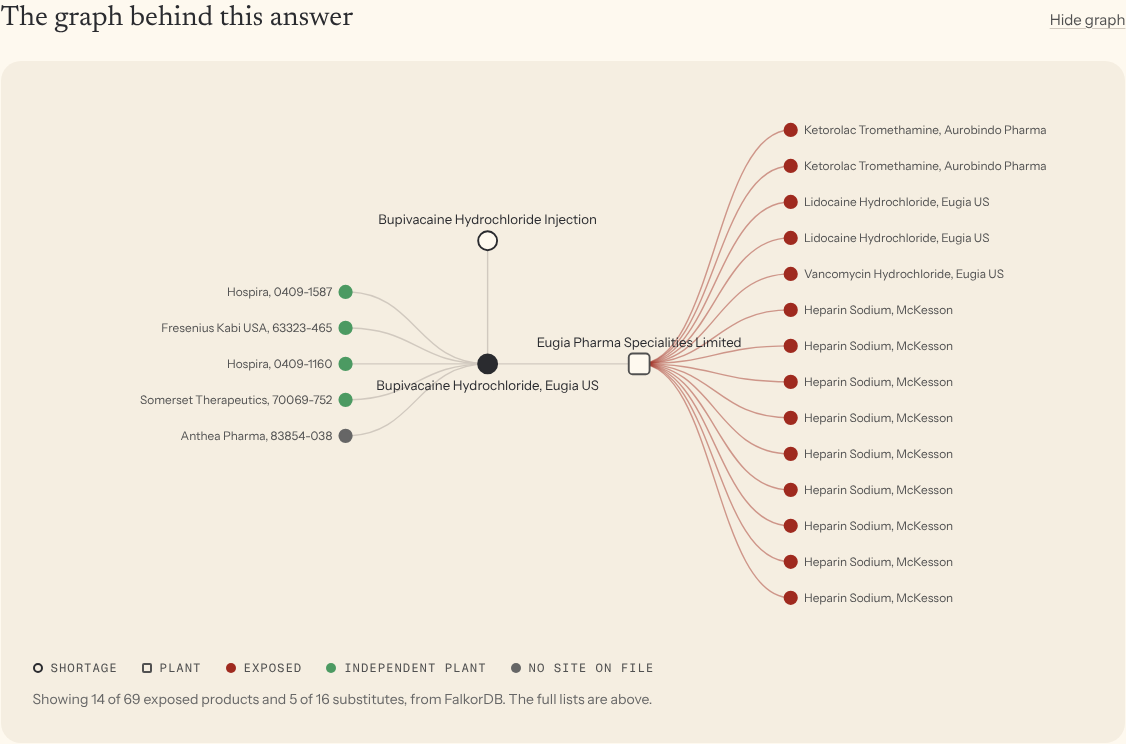
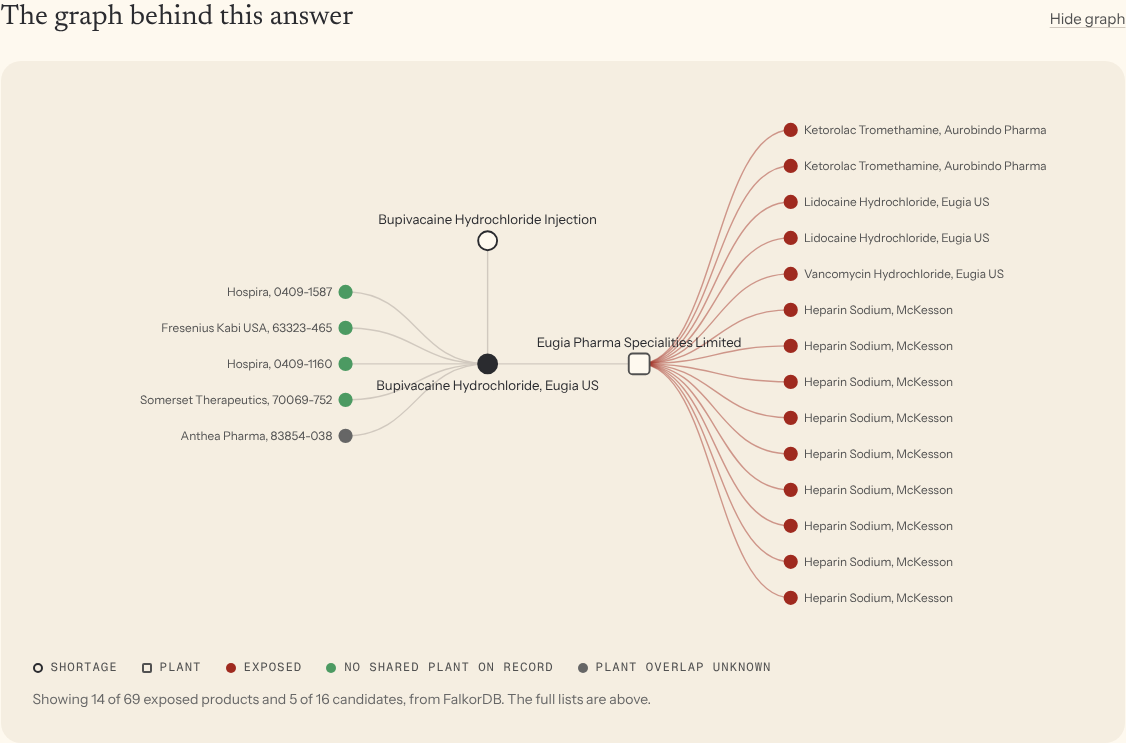
Remove facts the sources dropped on reload, stop cancelled traces before the next model call, and qualify summary, freshness and plant-group wording

diff --git a/frontend/src/components/landing/LiveCase.tsx b/frontend/src/components/landing/LiveCase.tsx
@@ -163,7 +163,7 @@ export function LiveCase() {
             ))}
           </ol>
           {ready && (
-            <p className="label mt-6 text-center">Live from today&rsquo;s FDA shortage list and a synthetic hospital formulary</p>
+            <p className="label mt-6 text-center">From the loaded FDA shortage list and a synthetic hospital formulary</p>
           )}
         </div>
       </section>
@@ -174,7 +174,7 @@ export function LiveCase() {
         <section id="case" className="scroll-mt-28 md:scroll-mt-20 bg-panel py-[clamp(48px,7vw,96px)]">
           <div className="wrap">
             <h2 className="h2 max-w-[22ch]">
-              A real case from <span className="em">today&rsquo;s</span> shortage list.
+              A real case from the <span className="em">FDA</span> shortage list.
             </h2>
             <div className="mt-12 grid items-center gap-3 lg:grid-cols-[1fr_auto_1fr_auto_1.1fr]">
               <Chip label="Shortage" title={`${title(d!.product!.label)}, ${company(d!.product!.labeler)}`} sub="FDA shortage notice" />
@@ -192,7 +192,7 @@ export function LiveCase() {
               </div>
             </div>
             <p className="mt-10 max-w-[60ch] text-[19px] text-ink-2">
-              {d!.hidden.length === 1 ? "This product has" : "Neither of these has"} a shortage notice in today&rsquo;s FDA list. {d!.hidden.length === 1 ? "It is" : "They are"} made at the same plant, under{" "}
+              {d!.hidden.length === 1 ? "This product has" : "Neither of these has"} a shortage notice in the FDA list Fontrel loaded. {d!.hidden.length === 1 ? "It is" : "They are"} made at the same plant, under{" "}
               {d!.hidden.length === 1 ? "another company's name" : "other companies' names"}.
             </p>
             <p className="mt-3 text-[15px] text-ink-3">

diff --git a/frontend/src/app/app/trace/[...id]/Reasoning.tsx b/frontend/src/app/app/trace/[...id]/Reasoning.tsx
@@ -70,7 +70,10 @@ export function Reasoning({ steps, answer, running, stale }: { steps: Step[]; an
         ) : answer.degraded ? (
           <p className="mt-3 text-ink-2">No written summary this time. The lists come straight from the graph.</p>
         ) : (
-          <p className="mt-3 font-display text-[21px] leading-snug">{summary}</p>
+          <>
+            <p className="mt-3 font-display text-[21px] leading-snug">{summary}</p>
+            <p className="mt-3 text-[14px] text-ink-3">Written by the AI model from the query results above. Check any claim against the lists before you act on it.</p>
+          </>
         )}
         {answer && stale && (
           <p className="mt-3 text-[14px] text-ink-2">This summary was written before your latest decision. Run a fresh trace to include it.</p>

diff --git a/frontend/src/app/app/trace/[...id]/Banner.tsx b/frontend/src/app/app/trace/[...id]/Banner.tsx
@@ -11,7 +11,7 @@ function when(iso: string) {
 
 export function Banner({ answer, onFresh }: { answer: TraceAnswer; onFresh: () => void }) {
   let text: string | null = null;
-  if (answer.degraded) text = "The AI model is busy, so this answer comes straight from the graph without a written summary.";
+  if (answer.degraded) text = "The AI model wasn't available for this trace, so this answer comes straight from the graph without a written summary.";
   else if (answer.replayed && answer.cached_at)
     text = `Saved trace from ${when(answer.cached_at)}. Your hospital's memory has not changed since.`;
   if (!text) return null;

diff --git a/frontend/src/app/app/sources/SourcesPage.tsx b/frontend/src/app/app/sources/SourcesPage.tsx
@@ -136,7 +136,7 @@ export function SourcesPage() {
           Plant groups touching {data ? shortName(data.tenant.name) : "your hospital"}
         </h2>
         <p className="mt-3 max-w-[62ch] text-ink-2">
-          Connected components: plants linked through the products they share. A problem at one plant can reach every product in its group.
+          Connected components: plants linked because some products list more than one of them. A shared link is a reason to review the whole group, not proof that a problem at one plant spreads.
         </p>
         <div className="mt-8">
           {!data ? (

diff --git a/frontend/src/app/app/Inbox.tsx b/frontend/src/app/app/Inbox.tsx
@@ -100,6 +100,9 @@ export function Inbox() {
                 <span className="em">touch your formulary.</span>
               </h1>
               <p className="mt-4 text-[19px] text-ink-2">{state.tenant.name}</p>
+              <p className="mt-2 max-w-[62ch] text-[15px] text-ink-3">
+                Every record here is on the FDA&rsquo;s current shortage list. The status column is the availability the FDA reports for that package, which can still be &ldquo;Available&rdquo;.
+              </p>
             </>
           ) : (
             <>

diff --git a/backend/ingest/load.py b/backend/ingest/load.py
@@ -25,9 +25,18 @@ def ensure_indexes(g: Graph) -> None:
 
 
 def load_products(g: Graph, rows: list[dict]) -> None:
+    """Products from this load replace what the graph held: a product that left the source is
+    removed, and each product's ingredient links are rewritten, so a changed ingredient never lingers.
+    Called only after the source was fully downloaded."""
+    g.query("MATCH (p:Product) WHERE NOT p.product_ndc IN $ndcs DETACH DELETE p",
+            {"ndcs": [r["product_ndc"] for r in rows]})
     q = """
     UNWIND $rows AS r
     MERGE (p:Product {product_ndc: r.product_ndc})
+    WITH p, r
+    OPTIONAL MATCH (p)-[old:CONTAINS|LABELED_BY]->()
+    DELETE old
+    WITH DISTINCT p, r
     SET p.generic_name = r.generic_name, p.brand_name = r.brand_name,
         p.dosage_form = r.dosage_form, p.route = r.route,
         p.application_number = r.application_number, p.spl_set_id = r.spl_set_id,
@@ -75,7 +84,11 @@ def stamp_ingest(g: Graph, source: str, records: int, fetched: str | None = None
     )
 
 
-def load_made_at(g: Graph, rows: list[dict]) -> None:
+def load_made_at(g: Graph, rows: list[dict], product_ndcs: list[str]) -> None:
+    """Plant links are rewritten for every product in this load, including products whose label
+    now lists no plant, so a plant that left a label never lingers."""
+    g.query("""MATCH (p:Product)-[m:MADE_AT|MANUFACTURED_AT]->(:Site) WHERE p.product_ndc IN $ndcs
+               DELETE m""", {"ndcs": product_ndcs})
     q = """
     UNWIND $rows AS r
     MATCH (p:Product {product_ndc: r.product_ndc})
@@ -90,9 +103,12 @@ def load_made_at(g: Graph, rows: list[dict]) -> None:
     # relationship type, not property) ignore packing, relabeling and testing sites.
     g.query("""MATCH (p:Product)-[m:MADE_AT {operation:'MANUFACTURE'}]->(s:Site)
                MERGE (p)-[:MANUFACTURED_AT]->(s)""")
+    g.query("MATCH (s:Site) WHERE NOT (s)<-[:MADE_AT]-() DETACH DELETE s")
 
 
 def load_candidate_suppliers(g: Graph, rows: list[dict], weight: float) -> None:
+    """Supplier links are rebuilt from scratch on each load. Suppliers left with no link are removed."""
+    g.query("MATCH ()-[c:CANDIDATE_SUPPLIER]->() DELETE c")
     """Link DMF holders to every ingredient whose name contains the matched term as a whole word."""
     from .openfda import word_match
     names = [r[0] for r in g.query("MATCH (i:Ingredient) RETURN i.name").result_set]
@@ -110,6 +126,8 @@ def load_candidate_suppliers(g: Graph, rows: list[dict], weight: float) -> None:
     """
     for b in _batched(rows):
         g.query(q, {"rows": b, "weight": weight})
+    g.query("MATCH (s:Supplier) WHERE NOT (s)-[:CANDIDATE_SUPPLIER]->() DETACH DELETE s")
+    g.query("MATCH (i:Ingredient) WHERE NOT ()-[:CONTAINS]->(i) AND NOT ()-[:CANDIDATE_SUPPLIER]->(i) DETACH DELETE i")
 
 
 def _strength(s: str) -> str:

diff --git a/backend/tests/test_ingest.py b/backend/tests/test_ingest.py
@@ -43,3 +43,32 @@ def test_word_match_is_whole_word():
     from ingest.openfda import word_match
     assert word_match("EPINEPHRINE", "EPINEPHRINE BITARTRATE")
     assert not word_match("EPINEPHRINE", "NOREPINEPHRINE BITARTRATE")
+
+
+def test_reload_removes_facts_the_source_dropped():
+    from fontrel import graph
+    from ingest import load
+    g = graph.client().select_graph("test_reconcile")
+    try:
+        g.delete()
+    except Exception:
+        pass
+
+    def product(ndc, ings, labeler="Co"):
+        return {"product_ndc": ndc, "generic_name": ndc, "brand_name": "", "dosage_form": "INJECTION", "route": "IV",
+                "application_number": "", "spl_set_id": "", "labeler": labeler, "terms": [],
+                "ingredients": [{"name": n, "strength": "1 mg/mL"} for n in ings]}
+    site = lambda ndc, duns: {"product_ndc": ndc, "duns": duns, "name": duns, "country": "", "operation": "MANUFACTURE", "setid": "s"}
+
+    load.load_products(g, [product("A", ["X"]), product("B", ["Y"])])
+    load.load_made_at(g, [site("A", "111"), site("B", "222")], ["A", "B"])
+    # second load: A changed ingredient and lost its plant, B left the source
+    load.load_products(g, [product("A", ["Z"], labeler="NewCo")])
+    load.load_made_at(g, [], ["A"])
+    q = lambda c: g.query(c).result_set
+    assert q("MATCH (p:Product) RETURN collect(p.product_ndc)") == [[["A"]]]
+    assert q("MATCH (:Product {product_ndc:'A'})-[:CONTAINS]->(i) RETURN collect(i.name)") == [[["Z"]]]
+    assert q("MATCH (:Product {product_ndc:'A'})-[:LABELED_BY]->(l) RETURN collect(l.name)") == [[["NewCo"]]]
+    assert q("MATCH (:Product)-[m:MADE_AT|MANUFACTURED_AT]->() RETURN count(m)") == [[0]]
+    assert q("MATCH (s:Site) RETURN count(s)") == [[0]]
+    g.delete()

diff --git a/backend/fontrel/agent.py b/backend/fontrel/agent.py
@@ -97,6 +97,10 @@ def _ndcs_in(results: list[tools.ToolResult]) -> set[str]:
     return seen
 
 
+class Cancelled(Exception):
+    """Raised by the caller's step callback when the browser has gone, to stop the run."""
+
+
 REQUIRED = ("get_shortage", "find_site_exposure", "find_substitutes", "recall_memory")
 
 
@@ -225,6 +229,8 @@ def run_trace(tenant_id: str, shortage_id: str, model: str | None = None, on_ste
                     result = call_tool(tenant_id, tc.function.name, args, shortage_id)
                     record(tc.function.name, args, result, "agent")
                     content = _compact(result)
+                except Cancelled:
+                    raise
                 except Exception as e:  # unknown tool or bad args: tell the model, keep going
                     content = json.dumps({"error": f"{type(e).__name__}: {e}"})
                 messages.append({"role": "tool", "tool_call_id": tc.id, "content": content})

diff --git a/backend/tests/test_agent.py b/backend/tests/test_agent.py
@@ -171,3 +171,19 @@ def test_early_answer_still_runs_required_tools(monkeypatch):
     assert out["complete"] and not out["degraded"]
     assert {"find_site_exposure", "find_substitutes", "recall_memory"} <= set(tools_run)
     assert set(out["completed_by_server"]) == {"find_site_exposure", "find_substitutes", "recall_memory"}
+
+
+def test_cancel_stops_before_the_next_model_call(monkeypatch):
+    calls = []
+
+    def chat(*a, **k):
+        calls.append(1)
+        return NS(choices=[NS(message=NS(tool_calls=[call("find_site_exposure", {})], content=""))])
+    monkeypatch.setattr(agent, "chat", chat)
+
+    def on_step(step):
+        if step["tool"] == "find_site_exposure":
+            raise agent.Cancelled()
+    with pytest.raises(agent.Cancelled):
+        agent.run_trace("mercy", sid(), "m", on_step=on_step)
+    assert len(calls) == 1

diff --git a/backend/tests/test_api.py b/backend/tests/test_api.py
@@ -224,12 +224,12 @@ def test_second_fresh_trace_for_same_shortage_is_refused(monkeypatch):
         return {"tenant": tenant, "shortage_id": shortage_id, "model": model, "degraded": True, "steps": [],
                 "answer": {}, "elapsed_s": 0}
     monkeypatch.setattr(agent, "run_trace", slow_run)
-    api._running.add(("mercy", sid, api.settings.llm_model))
+    api._running.add(("mercy", sid))
     try:
         ev = _events(c.post("/api/trace", json={"tenant": "mercy", "shortage_id": sid, "fresh": True}))
         assert ev[-1][0] == "error" and ev[-1][1]["error"] == "busy"
     finally:
-        api._running.discard(("mercy", sid, api.settings.llm_model))
+        api._running.discard(("mercy", sid))
         gate.set()
 
 

diff --git a/backend/fontrel/api.py b/backend/fontrel/api.py
@@ -27,8 +27,7 @@ _running: set[tuple] = set()
 _running_lock = threading.Lock()
 
 
-class Cancelled(Exception):
-    pass
+Cancelled = agent.Cancelled
 
 
 def _tenant(tenant_id: str) -> str:
@@ -91,7 +90,7 @@ def trace(req: TraceRequest):
     model = settings.llm_model_fast if req.fast else settings.llm_model
     events: queue.Queue = queue.Queue()
     cancelled = threading.Event()
-    key = (tenant, sid, model)
+    key = (tenant, sid)  # one fresh trace per hospital and shortage, whichever model
 
     def on_step(step):
         if cancelled.is_set():

diff --git a/backend/ingest/run.py b/backend/ingest/run.py
@@ -36,7 +36,7 @@ def main(reset: bool = False, refresh: bool = False) -> None:
     print(f"shortages: {len(shortages)} current, {linked} linked to a product")
 
     made_at = dailymed.made_at_rows(products)
-    load.load_made_at(g, made_at)
+    load.load_made_at(g, made_at, [p["product_ndc"] for p in products])
     load.stamp_ingest(g, "dailymed_spl", len(made_at), http.fetched_at("dailymed"))
     print(f"made_at rows: {len(made_at)}")
 
